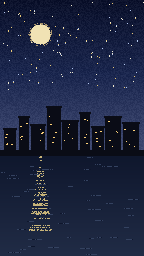
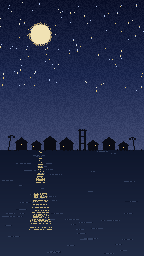
背景修正时代错误：高楼大厦改为明末临高渔村营地
- village() 取代 city()：茅草人字顶屋、椰树、岸线木栅栏、脚手架哨塔、零星灯火——崇祯年间的博铺是海边村寨，不是都市天际线
- ships()/boat() 改中式硬帆船：两端翘头船体 + 单桅矩形帆
- 荒年版海面改干裂滩涂（dryland），枯树立于地上而非海上
- 视觉模型验收：茅屋/椰树/哨塔/中式帆船确认到位，实机截图无高楼、层次协调

diff --git a/tools/gen_pixel_bg.py b/tools/gen_pixel_bg.py
@@ -49,6 +49,25 @@ def sea(img, horizon, dark, light, wave_rows=40):
             px[x + dx, y] = light if random.random() < 0.7 else dark
 
 
+def dryland(img, horizon, dark, light):
+    """旱地滩涂：渐变土色 + 干裂口（荒年版，枯树立于地上而非海上）。"""
+    px = img.load()
+    for y in range(horizon, H):
+        depth = (y - horizon) / max(1, H - horizon)
+        base = tuple(int(dark[i] + (light[i] - dark[i]) * depth * 0.6) for i in range(3))
+        for x in range(W):
+            px[x, y] = base
+    for _ in range(26):
+        x = random.randint(2, W - 4)
+        y = horizon + random.randint(2, H - horizon - 4)
+        ln = random.randint(5, 16)
+        for k in range(ln):
+            if random.random() < 0.85:
+                px[min(W - 1, x + k), y] = dark
+            if random.random() < 0.3 and y + 1 < H:
+                px[min(W - 1, x + k), y + 1] = dark
+
+
 def stars(img, horizon, colors, count, min_y=2, max_y_frac=0.6):
     px = img.load()
     for _ in range(count):
@@ -73,40 +92,82 @@ def moon(img, cx, cy, r, color, halo):
                 px[x, y] = halo
 
 
-def city(img, horizon, color, windows, win_color, broken=False):
-    """城郭剪影：百仞城方块群 + 点亮窗。"""
+def village(img, horizon, color, lamps, lamp_color, broken=False):
+    """明末渔村与穿越营地剪影：茅草屋（人字顶）、椰树、木栅栏、哨塔、零星灯火。
+    崇祯年间的临高没有高楼——登陆地博铺是海边一片村寨。"""
     px = img.load()
-    rng = random.Random(7)
-    x = 4
-    heights = [22, 34, 26, 44, 30, 38, 24, 34, 28, 40, 26, 32]
-    if broken:
-        heights[3] = 16
-        heights[4] = 10
-    for i, bh in enumerate(heights):
-        bw = rng.randint(10, 16)
-        top_y = horizon - bh
-        for yy in range(top_y, horizon):
-            for xx in range(x, min(x + bw, W - 2)):
+    rng = random.Random(1628)
+
+    def hut(x, w, h):
+        # 夯土墙
+        top = horizon - h
+        for yy in range(top, horizon):
+            for xx in range(x, x + w):
                 px[xx, yy] = color
-        # 屋檐
-        for xx in range(x - 1, min(x + bw + 1, W - 2)):
-            px[xx, top_y] = color
-            px[xx, top_y + 1] = color
-        # 窗
-        if not broken or i not in (3, 4):
-            for _ in range(windows):
-                wx = rng.randint(x + 1, x + bw - 3)
-                wy = rng.randint(top_y + 3, horizon - 4)
-                px[wx, wy] = win_color
-                if rng.random() < 0.5:
-                    px[wx + 1, wy] = win_color
-        x += bw + rng.randint(1, 3)
-        if x > W - 14:
+        # 人字草顶，出檐
+        roof = max(3, w // 2)
+        for r in range(roof + 1):
+            half = ((w // 2 + 2) * (roof - r)) // roof
+            for xx in range(x - 1, x + w + 1):
+                if abs(xx - (x + (w - 1) / 2)) <= half:
+                    px[xx, top - r] = color
+        if lamps and rng.random() < 0.75:
+            lx = x + rng.randint(1, max(1, w - 3))
+            px[lx, top + rng.randint(1, max(1, h - 2))] = lamp_color
+
+    def palm(x, h, lean):
+        # 弯干 + 顶端叶冠
+        cx = float(x)
+        for i in range(h):
+            xi = int(round(cx))
+            if 0 <= xi < W:
+                px[xi, horizon - 1 - i] = color
+            cx += lean
+        tx, ty = int(round(cx)), horizon - h
+        for dx in (-3, -2, 2, 3):
+            for k in (0, 1):
+                if 0 <= tx + dx < W and 0 <= ty + k < H:
+                    px[tx + dx, ty + k] = color
+        for dx in (-1, 0, 1):
+            if 0 <= tx + dx < W:
+                px[tx + dx, ty - 1] = color
+
+    def tower(x, h):
+        # 木哨塔：四腿脚手架 + 横撑 + 顶棚（营地标志）
+        for i in range(h):
+            y = horizon - 1 - i
+            for xx in (x, x + 1, x + 5, x + 6):
+                if 0 <= xx < W:
+                    px[xx, y] = color
+            if i in (h // 3, 2 * h // 3):
+                for xx in range(x, x + 7):
+                    if 0 <= xx < W:
+                        px[xx, y] = color
+        for xx in range(x - 1, x + 8):
+            if 0 <= xx < W and horizon - h >= 0:
+                px[xx, horizon - h] = color
+                if rng.random() < 0.6 and horizon - h - 1 >= 0:
+                    px[xx, horizon - h - 1] = color
+
+    palm(8, 14, 0.18)
+    x = 16
+    plan = [(11, 8), (9, 6), (12, 9), (13, 7), (10, 6), (12, 8), (9, 5)]
+    for j, (w, h) in enumerate(plan):
+        if x + w > W - 12:
             break
-    # 地面
-    for y in range(horizon, min(horizon + 6, H)):
-        for xx in range(W):
-            px[xx, y] = color
+        hh = max(4, h - (2 if broken and rng.random() < 0.4 else 0))
+        hut(x, w, hh)
+        x += w + rng.randint(2, 5)
+        if j == 3:
+            tower(x + 1, 13 if broken else 20)
+            x += 10
+    palm(min(W - 8, x + 3), 12, -0.15)
+    # 岸线上的木栅栏
+    for xx in range(2, W - 2):
+        if rng.random() < 0.3:
+            px[xx, horizon] = color
+            if rng.random() < 0.35:
+                px[xx, horizon - 1] = color
 
 
 def smoke(img, x_top, horizon, color, columns=3):
@@ -153,23 +214,28 @@ def dead_trees(img, horizon, color):
 
 
 def ships(img, horizon, color, count=6, sails=True):
+    """中式渔船剪影：两端翘头船体 + 单桅硬帆。"""
     px = img.load()
     for i in range(count):
         x = random.randint(4, W - 16)
         y = horizon + random.randint(2, 18)
-        # 桅
-        for k in range(5):
-            px[x + 4, y - k] = color
-        # 船体
+        # 船体（翘头）
         for dx in range(10):
             px[x + dx, y] = color
-            if dx in (0, 9):
-                px[x + dx, y + 1] = color
+        px[x, y - 1] = color
+        px[x - 1, y - 1] = color
+        px[x + 9, y - 1] = color
+        px[x + 10, y - 1] = color
+        # 单桅 + 硬帆面
+        for k in range(6):
+            px[x + 5, y - 1 - k] = color
         if sails:
-            for k in range(3):
-                px[x + 3, y - 3 - k] = color
-                px[x + 5, y - 3 - k] = color
-            px[x + 4, y - 4] = color
+            for k in range(1, 5):
+                px[x + 4, y - k] = color
+                px[x + 6, y - k] = color
+                if k < 4:
+                    px[x + 3, y - k] = color
+                    px[x + 7, y - k] = color
 
 
 def save(img, name):
@@ -192,7 +258,7 @@ for i in range(60):
     for dx in range(-w, w + 1):
         if random.random() < 0.6:
             px[min(W - 1, max(0, 106 + dx)), y] = (180, 160, 110)
-city(img, HOR, (10, 8, 14), 3, (232, 182, 92))
+village(img, HOR, (10, 8, 14), 3, (232, 182, 92))
 save(img, "bg-calm.png")
 
 # ---------------- 2) people：民怨之火 ----------------
@@ -202,7 +268,7 @@ sky_gradient(img, (30, 12, 12), (66, 24, 18), (110, 44, 26), HOR)
 stars(img, HOR, [(240, 160, 90)], 8)
 moon(img, 30, 30, 8, (150, 80, 50), (90, 50, 36))
 sea(img, HOR, (20, 12, 14), (60, 30, 24), 36)
-city(img, HOR, (12, 6, 8), 1, (240, 120, 60), broken=True)
+village(img, HOR, (12, 6, 8), 1, (240, 120, 60), broken=True)
 smoke(img, 30, HOR, (70, 56, 52), 4)
 smoke(img, 86, HOR, (60, 48, 46), 3)
 fires(img, HOR, (240, 120, 50), (200, 60, 30), 14)
@@ -213,9 +279,9 @@ img = Image.new("RGB", (W, H))
 HOR = 158
 sky_gradient(img, (36, 32, 20), (56, 48, 30), (86, 72, 44), HOR)
 stars(img, HOR, [(160, 150, 120)], 10)
-sea(img, HOR, (26, 26, 18), (58, 54, 38), 24)
+dryland(img, HOR, (44, 36, 22), (74, 60, 34))
 dead_trees(img, HOR, (34, 28, 20))
-city(img, HOR, (16, 14, 10), 1, (160, 130, 70), broken=True)
+village(img, HOR, (16, 14, 10), 1, (160, 130, 70), broken=True)
 # 地面裂纹
 px = img.load()
 for _ in range(9):
@@ -233,7 +299,7 @@ HOR = 148
 sky_gradient(img, (20, 16, 28), (48, 26, 36), (96, 40, 32), HOR)
 stars(img, HOR, [(200, 120, 90)], 8)
 sea(img, HOR, (14, 14, 24), (48, 34, 38), 34)
-city(img, HOR, (12, 8, 14), 2, (255, 140, 60))
+village(img, HOR, (12, 8, 14), 2, (255, 140, 60))
 # 烽燧冲天
 smoke(img, 44, HOR, (140, 70, 40), 2)
 smoke(img, 96, HOR, (120, 60, 36), 2)
@@ -255,7 +321,7 @@ for y in range(6, HOR - 10):
     if random.random() < 0.3:
         px[x, y + 1] = (90, 96, 112)
 sea(img, HOR, (16, 18, 24), (44, 46, 54), 30)
-city(img, HOR, (10, 10, 14), 2, (150, 140, 100))
+village(img, HOR, (10, 10, 14), 2, (150, 140, 100))
 save(img, "bg-council.png")
 
 # ---------------- 6) wind：风声之海 ----------------
@@ -265,7 +331,7 @@ sky_gradient(img, (16, 18, 30), (30, 34, 46), (52, 54, 60), HOR)
 stars(img, HOR, [(180, 180, 190)], 6)
 sea(img, HOR, (12, 16, 26), (40, 48, 60), 60)
 ships(img, HOR, (14, 16, 22), 8, sails=True)
-city(img, HOR, (10, 10, 16), 1, (200, 160, 90), broken=True)
+village(img, HOR, (10, 10, 16), 1, (200, 160, 90), broken=True)
 save(img, "bg-wind.png")
 
 # ---------------- 7) gold：全盛星夜 ----------------
@@ -282,7 +348,7 @@ for i in range(50):
     for dx in range(-w, w + 1):
         if random.random() < 0.5:
             px[min(W - 1, max(0, 40 + dx)), y] = (200, 180, 120)
-city(img, HOR, (10, 12, 22), 5, (255, 210, 120))
+village(img, HOR, (10, 12, 22), 5, (255, 210, 120))
 save(img, "bg-gold.png")
 
 # ---------------- 8) end-collapse：终局余烬 ----------------
@@ -291,7 +357,7 @@ HOR = 160
 sky_gradient(img, (18, 6, 6), (44, 12, 8), (84, 24, 12), HOR)
 stars(img, HOR, [(220, 90, 40)], 10)
 sea(img, HOR, (16, 8, 8), (50, 20, 14), 26)
-city(img, HOR, (10, 4, 4), 0, (200, 90, 40), broken=True)
+village(img, HOR, (10, 4, 4), 0, (200, 90, 40), broken=True)
 smoke(img, 24, HOR, (52, 30, 26), 3)
 smoke(img, 90, HOR, (44, 26, 22), 2)
 fires(img, HOR, (230, 100, 40), (180, 50, 20), 16)
@@ -320,6 +386,9 @@ def boat(x, y, s, mcolor):
         fpx[x + dx, y] = mcolor
         if dx in range(0, s * 2, 3):
             fpx[x + dx, y + 1] = mcolor
+    # 两端翘头（中式）
+    for ex in (0, 1, s * 2 - 2, s * 2 - 1):
+        fpx[x + ex, y - 1] = mcolor
     # 桅与帆
     for k in range(s + 4):
         fpx[x + s, y - k] = mcolor
